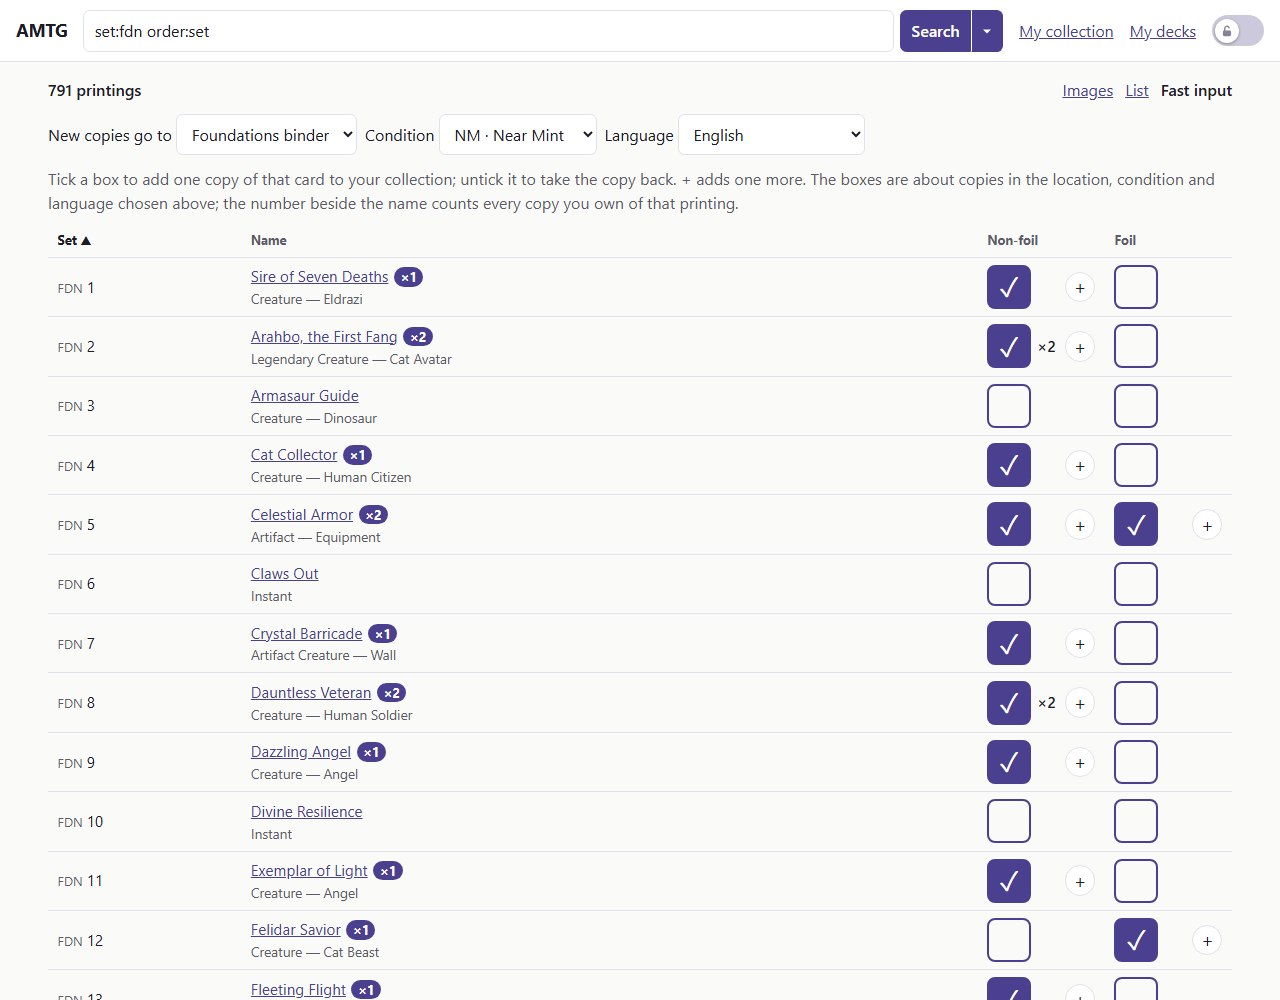
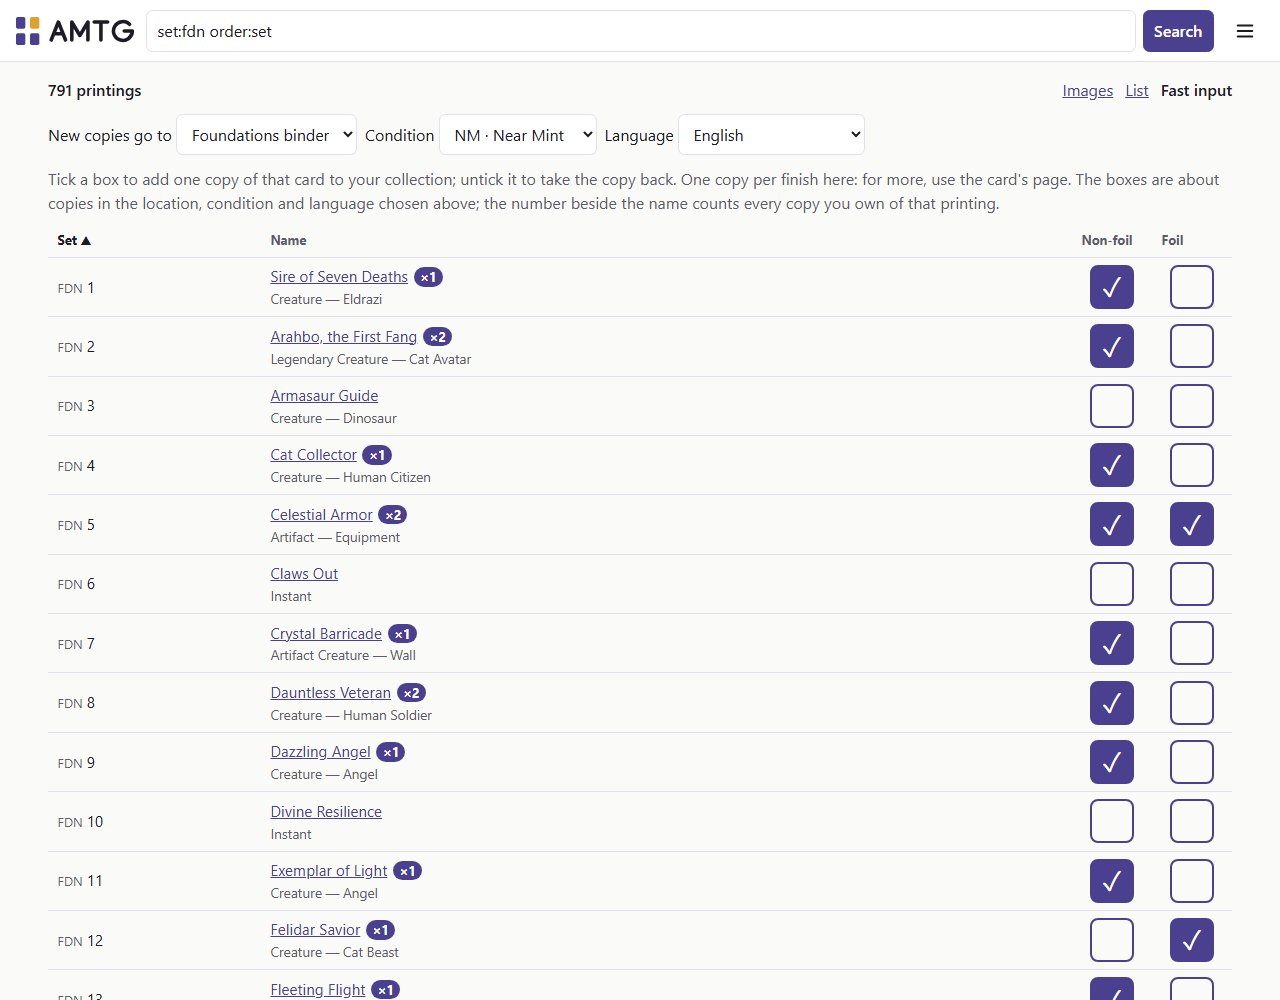
Site: retake the screenshots from a demo collection, owned dragons marked x1; drop the collection list shot

diff --git a/site/it/index.html b/site/it/index.html
@@ -32,8 +32,7 @@
 <section>
 <h2>Guardala all'opera</h2>
 <div class="shots">
-<figure><a href="../img/search.jpg"><img src="../img/search.jpg" alt="I risultati di una ricerca di draghi mostrati come immagini delle carte" loading="lazy" width="1280" height="1000"></a><figcaption>Ricerca: <code>t:dragon order:price</code> mostra tutti i draghi come immagini.</figcaption></figure>
-<figure><a href="../img/collection.jpg"><img src="../img/collection.jpg" alt="L'elenco della collezione con posizione, finitura, condizione e valore" loading="lazy" width="1280" height="1000"></a><figcaption>La tua collezione, con il posto in cui tieni ogni carta.</figcaption></figure>
+<figure><a href="../img/search.jpg"><img src="../img/search.jpg" alt="I risultati di una ricerca di draghi mostrati come immagini delle carte; quelli in collezione sono segnati ×1" loading="lazy" width="1280" height="1000"></a><figcaption>Ricerca: <code>t:dragon order:price</code> mostra tutti i draghi come immagini; ×1 segna quelli che hai.</figcaption></figure>
 <figure><a href="../img/fast.jpg"><img src="../img/fast.jpg" alt="Inserimento rapido: due grandi caselle, non foil e foil, accanto a ogni carta di un set" loading="lazy" width="1280" height="1000"></a><figcaption>Inserimento rapido: spunta una casella e la carta è nella collezione.</figcaption></figure>
 <figure><a href="../img/deck.jpg"><img src="../img/deck.jpg" alt="La lista di un mazzo con l'indicatore di completamento e le carte mancanti" loading="lazy" width="1280" height="1300"></a><figcaption>Un mazzo, e quanto ne possiedi già.</figcaption></figure>
 <figure><a href="../img/stats.jpg"><img src="../img/stats.jpg" alt="Statistiche della collezione per colore, rarità, tipo e anno" loading="lazy" width="1280" height="1300"></a><figcaption>Statistiche per colore, rarità, tipo, anno e finitura.</figcaption></figure>

diff --git a/site/index.html b/site/index.html
@@ -32,8 +32,7 @@
 <section>
 <h2>See it at work</h2>
 <div class="shots">
-<figure><a href="img/search.jpg"><img src="img/search.jpg" alt="Search results for dragons shown as card images" loading="lazy" width="1280" height="1000"></a><figcaption>Search: <code>t:dragon order:price</code> shows every dragon as card images.</figcaption></figure>
-<figure><a href="img/collection.jpg"><img src="img/collection.jpg" alt="The collection list with location, finish, condition and value" loading="lazy" width="1280" height="1000"></a><figcaption>Your collection, with where each card is kept.</figcaption></figure>
+<figure><a href="img/search.jpg"><img src="img/search.jpg" alt="Search results for dragons shown as card images; the ones in the collection are marked ×1" loading="lazy" width="1280" height="1000"></a><figcaption>Search: <code>t:dragon order:price</code> shows every dragon as card images; ×1 marks the ones you own.</figcaption></figure>
 <figure><a href="img/fast.jpg"><img src="img/fast.jpg" alt="Fast input: two big boxes, non-foil and foil, beside every card of a set" loading="lazy" width="1280" height="1000"></a><figcaption>Fast input: tick a box and the card is in your collection.</figcaption></figure>
 <figure><a href="img/deck.jpg"><img src="img/deck.jpg" alt="A deck list with completion gauge and missing cards" loading="lazy" width="1280" height="1300"></a><figcaption>A deck, and how much of it you already own.</figcaption></figure>
 <figure><a href="img/stats.jpg"><img src="img/stats.jpg" alt="Collection statistics by colour, rarity, type and year" loading="lazy" width="1280" height="1300"></a><figcaption>Statistics by colour, rarity, type, year and finish.</figcaption></figure>

diff --git a/PLAN.md b/PLAN.md
@@ -40,6 +40,7 @@ Read `SPEC.md` first; section numbers below (§) refer to it.
 | + | Owner request: no card list page; the statistics page is "My collection" again; the syntax in the menu | done 2026-11-14, not released | 1107 tests green (7 fewer: the tests of the removed page and of `service.list_entries` go with them — the list, its filters, sorting, paging and column headings, and `GET /fast`; one new test says `/collection` is 404 and linked from nowhere; the edit, move and remove tests now come from other pages, and the price test uses `service.totals`). The owner did not want to maintain a page that only listed the cards: the collection is searched like every card (`haveprint:yes`, `loc:`, `qty`, the switch in the menu). **Removed**: `GET /collection` and `collection.html`, the inline row editing only it used (the edit page always renders whole now), `service.list_entries` / `SORTS` / `PER_PAGE`, the "sorts" form option, 17 strings nothing used any more (`collection.sort.*`, `nav.my_stats`, `nav.fast`, `admin.syntax.link`…). **Kept**: editing, moving and removing one entry (`/collection/{id}/edit`, `POST /collection/{id}`, `…/move`, `…/remove`), reached from the card page; without `next` they go back to `/stats`, and the lock to `/`. **Statistics page**: titled "My collection" (`collection.title`, also the menu's label) and links to Locations, Import, Export only. **Menu**: "Search syntax" with an *i* in a circle, just above Administration; the section in Administration is gone. **Locations**: a place's name was a link to the list; it is now a search, `loc:"<name>"` (`templating.location_search`); "No location" is plain text. The import's last page links to My collection. SPEC §7 and §9, the route table, README, the website guides and the changelog follow. Seen in a browser: the menu, the 404, the locations link (the statistics page needs a catalog, which the scratch folder does not have; tests cover it). Decisions taken without asking — TODO(owner): confirm or change: (1) `GET /fast` (fast input on the newest set) went too, with its link in Administration, since fast input now lives in the search results only; (2) `loc:` matches names that contain the text, so the search for "Box" also lists "Blue box"; and there is no search for copies without a location — both would need a change to the search grammar (§6), which is the owner's call; (3) the addresses that edit one entry keep the word `collection`. |
 | + | Owner request: a logo | done 2026-11-14, not released | 1115 tests green (8 new, `tests/test_logo.py`; `tests/test_app.py` and `tests/test_selfupdate.py` follow the header). Among drafts shown in the conversation the owner chose the binder: four cards in a square, the top right one amber. `scripts/make_logo.py` (standard library only, lettering drawn as strokes, no font) writes `branding/` (icon, `amtg.ico` 16–256 px, PNG 16–512, the mark, AMTG, AMTG.FANS, the full name on two lines and on one, each for light and dark backgrounds, and `preview.html`), the app's favicons (violet tile; ink tile for the dark pages), the header's `templates/logo.svg`, and the website's `favicon.svg` and `logo.svg`. A test fails when a file is not what the script draws. The header shows the binder and AMTG in the page's colours (`.logo-*` in `app.css`), the binder alone below 30rem; every website page shows AMTG.FANS; `scripts/build_exe.py` passes `--icon branding/amtg.ico`; the README shows the logo. SPEC §7 (Name, new *Logo*, Header, Light and dark) and §10, `docs/development.md` and the changelog follow. Seen in a browser on an empty scratch data folder: dark and light, desktop and 375 px (no sideways scroll); the website at depth 2 (`it/guides/`). **Not tried:** building the executable with the icon (PyInstaller not run here) and how Explorer shows it; .NET's icon reader opens every size up to 128 but not the 256 PNG frame, which is the format Windows itself uses. Decisions taken without asking — TODO(owner): confirm or change: (1) the colours are the app's violet and amber, with ink; (2) the lettering is geometric capitals drawn for the logo; (3) the dark favicon is the binder on an ink tile; (4) the app shows AMTG, the website AMTG.FANS; (5) on a phone the header shows only the binder. |
 | + | Owner request: decks one under the other, with colour identity and costs; a New deck button | done 2026-11-14, not released | 1119 tests green (4 new in `tests/test_decks.py`: numbering, colour identity and costs, a colourless or empty deck, the button and the name panel; the import test now picks its box by name, since the notes are a `<textarea>` too). `/decks` lists the decks as stacked blocks: gauge, name, colour identity of the **main deck** as mana symbols (`{C}` when colourless, nothing for a deck with no main deck), format, main deck and sideboard copies, missing, contested, estimated cost (every copy, both boards, at the cheapest paper printing — the price the deck page already used for the missing cards), the cost of completing it, the day of the last change (`updated_at`, UTC) and the notes. The form at the bottom is gone: **+ New deck**, right of the title, posts `/decks` with no name and the service names the deck "Deck *n*" / "Mazzo *n*" in the visitor's language, *n* = number of decks + 1, raised while that name is taken (so after deleting one the numbers do not go back). It opens `/decks/{id}?new=1`, where *Name, format and notes* (a fold at the top of the deck page, under the head) is open and the name is focused and selected (`data-select`, 6 lines in `app.js`); deleting stayed at the bottom, in its own fold. A POST with a name still creates that deck, as the JSON import and the tests do. The deck page also shows the colour identity and an *Estimated cost* tile; its head is a partial (`_deck_head.html`) shared with the Statistics tab. The missing cost now comes from the summary, not from the route. No schema change. Checked in the browser on fixture data, desktop and phone width. SPEC §14, `docs/decks.md`, the site guide (en, it) and the changelog follow. TODO(owner): the identity is the union of the main deck's cards; for Commander that is the commander's identity only if the list is legal — say if you would rather pick the commander. |
+| + | Owner request: new screenshots on the website, four instead of five | done 2026-11-15 | No code changed (the website only). `site/img/search.jpg`, `fast.jpg`, `deck.jpg`, `stats.jpg` retaken from the current app (new header with the logo, fast input inside the search results, the new deck page); `collection.jpg` deleted with its figure on both home pages, since the card list page is gone. In the search for dragons eight of the first 21 cards are owned and show ×1; its caption and alt text say so (English and Italian). Made from a **demo collection**, not the owner's: a scratch data folder with a copy of the local catalog and image cache and a collection built by a throwaway script through the service functions (8 dragons, the start of Foundations in a "Foundations binder", a 60-card deck "Dragons and friends" with 50 owned, 110 random printings for the statistics; 308 copies). Shots by headless Chrome with its own scratch profile, 1280 px wide (1000 or 1300 tall as before), light pages, English, saved as JPEG. Seen on the site served locally: four figures, all images load. The scripts were not committed — TODO(owner): say if a `scripts/make_demo.py` for future screenshots is wanted. |
 
 ---
 
